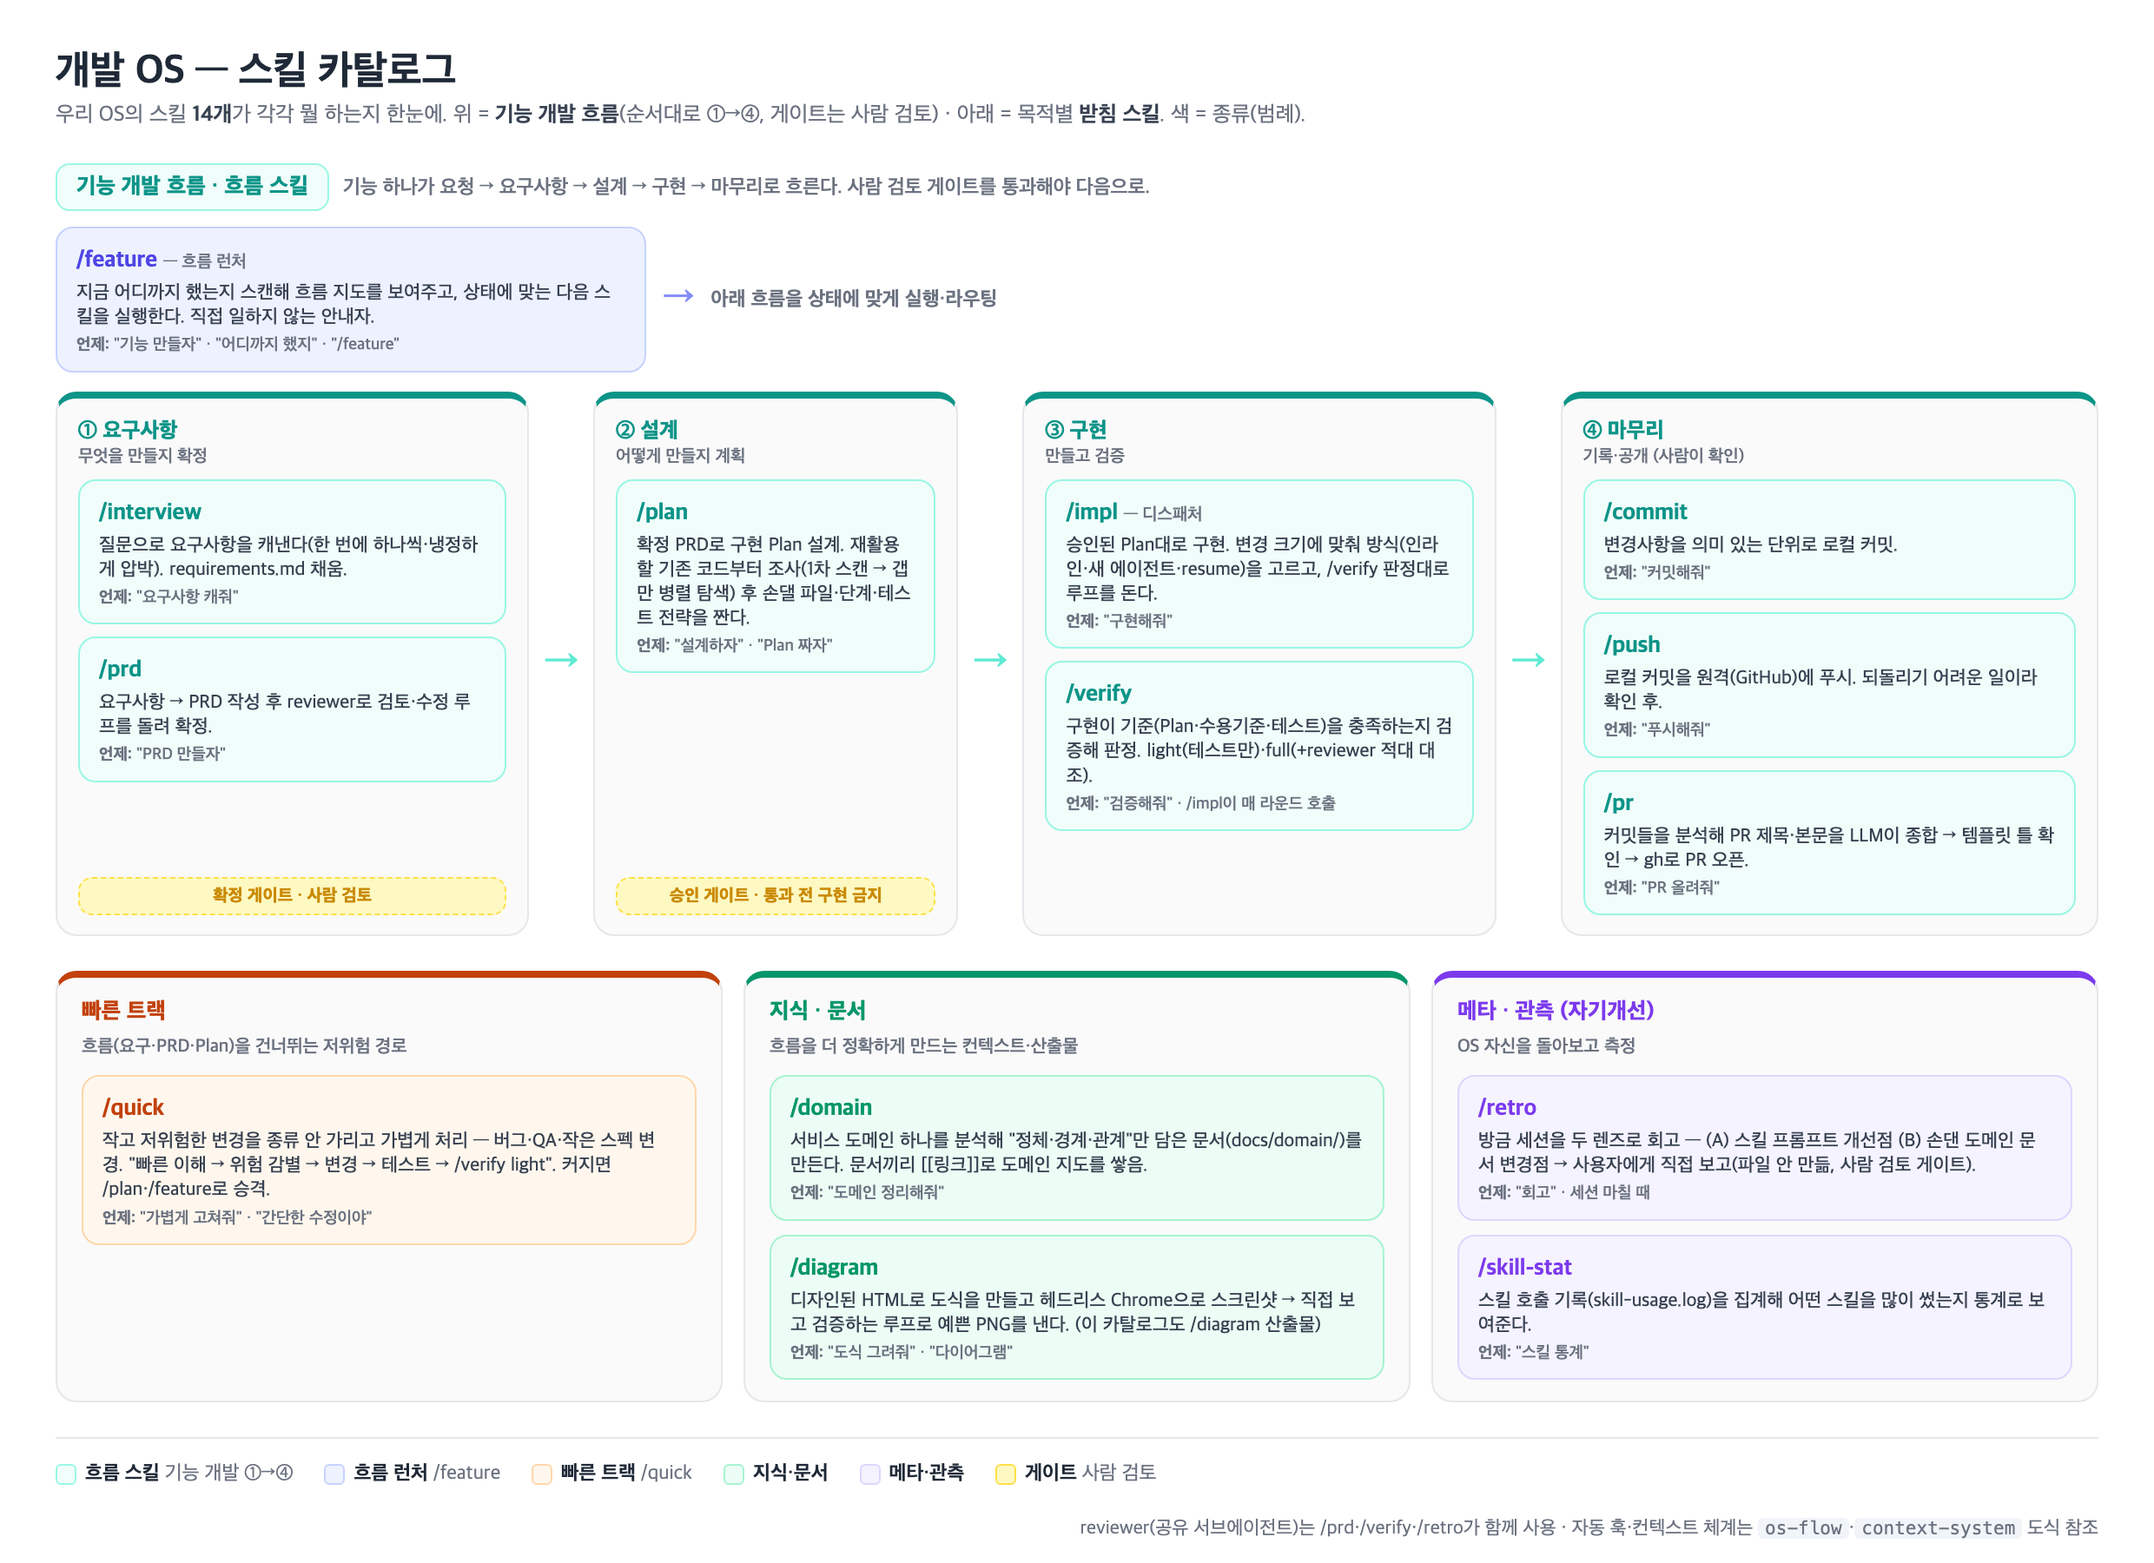
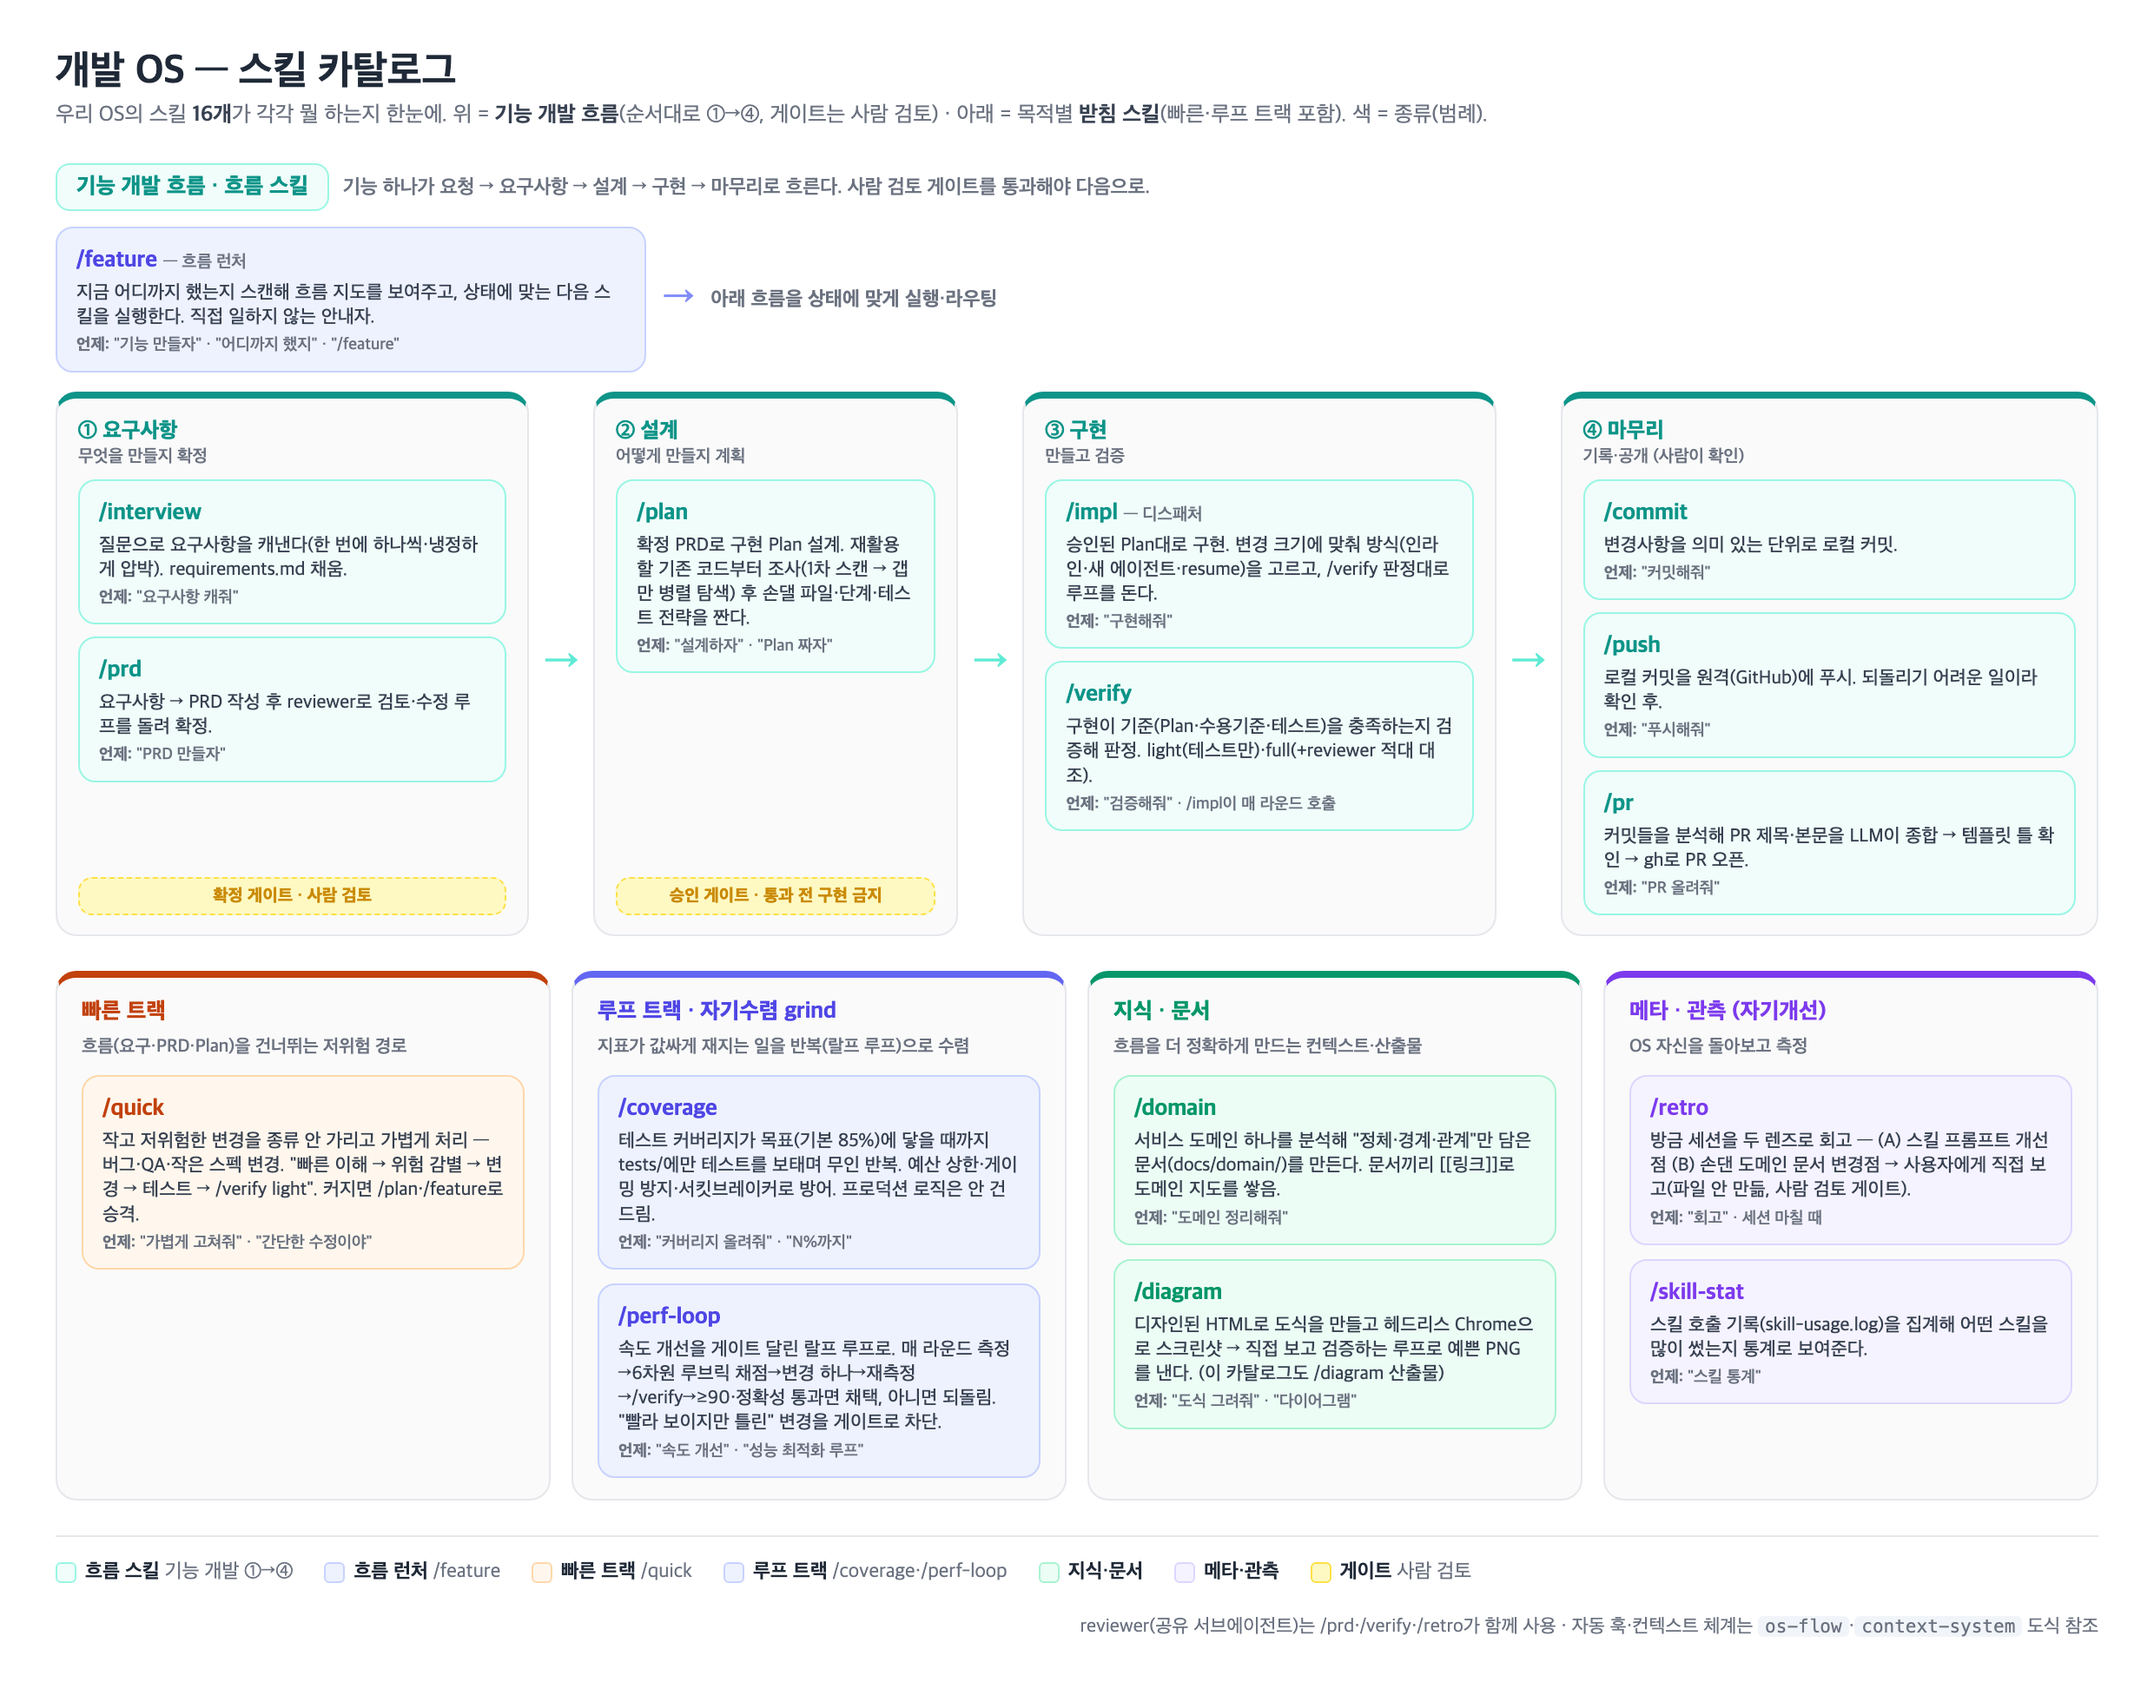
docs : 스킬 카탈로그·지도에 루프 트랙(/coverage·/perf-loop) 추가 (14→16개)

diff --git a/docs/diagrams/os-skill-catalog.html b/docs/diagrams/os-skill-catalog.html
@@ -56,6 +56,8 @@
   .z-know .skill{border-color:#a7f3d0;background:var(--know);} .z-know .skill .n{color:var(--know-b);}
   .z-meta{border-top:4px solid var(--meta-b);} .z-meta .zh{color:var(--meta-b);}
   .z-meta .skill{border-color:#ddd6fe;background:var(--meta);} .z-meta .skill .n{color:var(--meta-b);}
+  .z-loop{border-top:4px solid #6366f1;} .z-loop .zh{color:#4f46e5;}
+  .z-loop .skill{border-color:#c7d2fe;background:#eef2ff;} .z-loop .skill .n{color:#4f46e5;}
   .zone .zsub{font-size:10.5px;color:var(--muted);font-weight:600;margin:-3px 0 2px;}
 
   .legend{margin-top:20px;border-top:1px solid var(--line);padding-top:13px;display:flex;gap:18px;
@@ -66,7 +68,7 @@
   code{background:#f1f5f9;border-radius:3px;padding:0 4px;font-size:10.5px;}
 </style></head><body>
   <h1>개발 OS — 스킬 카탈로그</h1>
-  <p class="sub">우리 OS의 스킬 <b>14개</b>가 각각 뭘 하는지 한눈에. 위 = <b>기능 개발 흐름</b>(순서대로 ①→④, 게이트는 사람 검토) · 아래 = 목적별 <b>받침 스킬</b>. 색 = 종류(범례).</p>
+  <p class="sub">우리 OS의 스킬 <b>16개</b>가 각각 뭘 하는지 한눈에. 위 = <b>기능 개발 흐름</b>(순서대로 ①→④, 게이트는 사람 검토) · 아래 = 목적별 <b>받침 스킬</b>(빠른·루프 트랙 포함). 색 = 종류(범례).</p>
 
   <!-- ===== 흐름 스킬 ===== -->
   <div class="flowhead">
@@ -162,6 +164,21 @@
       </div>
     </div>
 
+    <div class="zone z-loop">
+      <div class="zh">루프 트랙 · 자기수렴 grind</div>
+      <div class="zsub">지표가 값싸게 재지는 일을 반복(랄프 루프)으로 수렴</div>
+      <div class="skill">
+        <span class="n">/coverage</span>
+        <span class="d">테스트 커버리지가 목표(기본 85%)에 닿을 때까지 tests/에만 테스트를 보태며 무인 반복. 예산 상한·게이밍 방지·서킷브레이커로 방어. 프로덕션 로직은 안 건드림.</span>
+        <span class="t"><b>언제:</b> "커버리지 올려줘" · "N%까지"</span>
+      </div>
+      <div class="skill">
+        <span class="n">/perf-loop</span>
+        <span class="d">속도 개선을 게이트 달린 랄프 루프로. 매 라운드 측정→6차원 루브릭 채점→변경 하나→재측정→/verify→≥90·정확성 통과면 채택, 아니면 되돌림. "빨라 보이지만 틀린" 변경을 게이트로 차단.</span>
+        <span class="t"><b>언제:</b> "속도 개선" · "성능 최적화 루프"</span>
+      </div>
+    </div>
+
     <div class="zone z-know">
       <div class="zh">지식 · 문서</div>
       <div class="zsub">흐름을 더 정확하게 만드는 컨텍스트·산출물</div>
@@ -197,6 +214,7 @@
     <span><span class="sw" style="background:var(--flow);border-color:#99f6e4"></span><b>흐름 스킬</b> 기능 개발 ①→④</span>
     <span><span class="sw" style="background:var(--launch);border-color:#c7d2fe"></span><b>흐름 런처</b> /feature</span>
     <span><span class="sw" style="background:var(--quick);border-color:#fed7aa"></span><b>빠른 트랙</b> /quick</span>
+    <span><span class="sw" style="background:#eef2ff;border-color:#c7d2fe"></span><b>루프 트랙</b> /coverage·/perf-loop</span>
     <span><span class="sw" style="background:var(--know);border-color:#a7f3d0"></span><b>지식·문서</b></span>
     <span><span class="sw" style="background:var(--meta);border-color:#ddd6fe"></span><b>메타·관측</b></span>
     <span><span class="sw" style="background:var(--gate);border-color:#fde047"></span><b>게이트</b> 사람 검토</span>

diff --git a/docs/diagrams/os-skill-map.html b/docs/diagrams/os-skill-map.html
@@ -39,12 +39,14 @@
   .zone.z-sup{border-top:4px solid var(--sup-b);}
   .zone.z-hook{border-top:4px solid var(--hook-b);}
   .zone.z-ctx{border-top:4px solid var(--ctx-b);}
+  .zone.z-loop{border-top:4px solid #6366f1;}
   .zone .zh{font-weight:800;font-size:12.5px;margin-bottom:8px;}
-  .z-sup .zh{color:var(--sup-b);} .z-hook .zh{color:var(--hook-b);} .z-ctx .zh{color:var(--ctx-b);}
+  .z-sup .zh{color:var(--sup-b);} .z-hook .zh{color:var(--hook-b);} .z-ctx .zh{color:var(--ctx-b);} .z-loop .zh{color:#4f46e5;}
   .item{border-radius:8px;padding:6px 9px;font-size:11.5px;border:1px solid;background:#fff;line-height:1.3;margin-bottom:6px;font-weight:700;}
   .item .k{display:block;font-size:9px;font-weight:600;color:var(--muted);margin-top:1px;}
   .i-hook{background:var(--hook);border-color:#fde68a;color:var(--hook-b);}
   .i-ctx{background:var(--ctx);border-color:#a7f3d0;color:var(--ctx-b);}
+  .i-loop{background:#eef2ff;border-color:#c7d2fe;color:#4f46e5;}
   .rel{font-size:10.5px;color:var(--muted);font-weight:700;margin:1px 0 7px 3px;}
   .rel b{color:#374151;}
   .reviewer{margin-top:7px;background:var(--agent);border:1px solid #bfdbfe;border-radius:8px;padding:6px 9px;font-size:11px;font-weight:700;color:var(--agent-b);}
@@ -131,6 +133,13 @@
 
   <!-- ===== SUPPORT ZONES ===== -->
   <div class="zones">
+    <div class="zone z-loop">
+      <div class="zh">독립 루프 트랙 · 흐름 밖</div>
+      <div class="item i-loop">/coverage<span class="k">커버리지 목표까지 tests/에만 무인 반복 · 예산·게이밍가드·서킷브레이커</span></div>
+      <div class="item i-loop">/perf-loop<span class="k">속도 개선 게이트 루프 · 측정+정확성 게이트, 6차원 루브릭 ≥90 채택</span></div>
+      <div class="rel">└ /prd·/plan 건너뜀 · 지표로 수렴까지 반복(랄프 루프) · (+ <b>/quick</b> 저위험 트랙 → ③ 참조)</div>
+    </div>
+
     <div class="zone z-sup">
       <div class="zh">받침 · 메타 스킬</div>
       <div class="skill k-sup">/retro<span class="k">세션 회고(파일 없이 직접 보고)</span></div>
@@ -164,6 +173,7 @@
   <div class="legend">
     <span><span class="sw" style="background:var(--flow);border-color:#99f6e4"></span><b>흐름 스킬</b> ①→④</span>
     <span><span class="sw" style="background:var(--sup);border-color:#ddd6fe"></span><b>받침·메타 스킬</b></span>
+    <span><span class="sw" style="background:#eef2ff;border-color:#c7d2fe"></span><b>독립 루프 트랙</b> /coverage·/perf-loop</span>
     <span><span class="sw" style="background:var(--agent);border-color:#bfdbfe"></span><b>서브에이전트</b> reviewer</span>
     <span><span class="sw" style="background:var(--hook);border-color:#fde68a"></span><b>자동 훅</b></span>
     <span><span class="sw" style="background:var(--ctx);border-color:#a7f3d0"></span><b>컨텍스트·지식</b></span>
